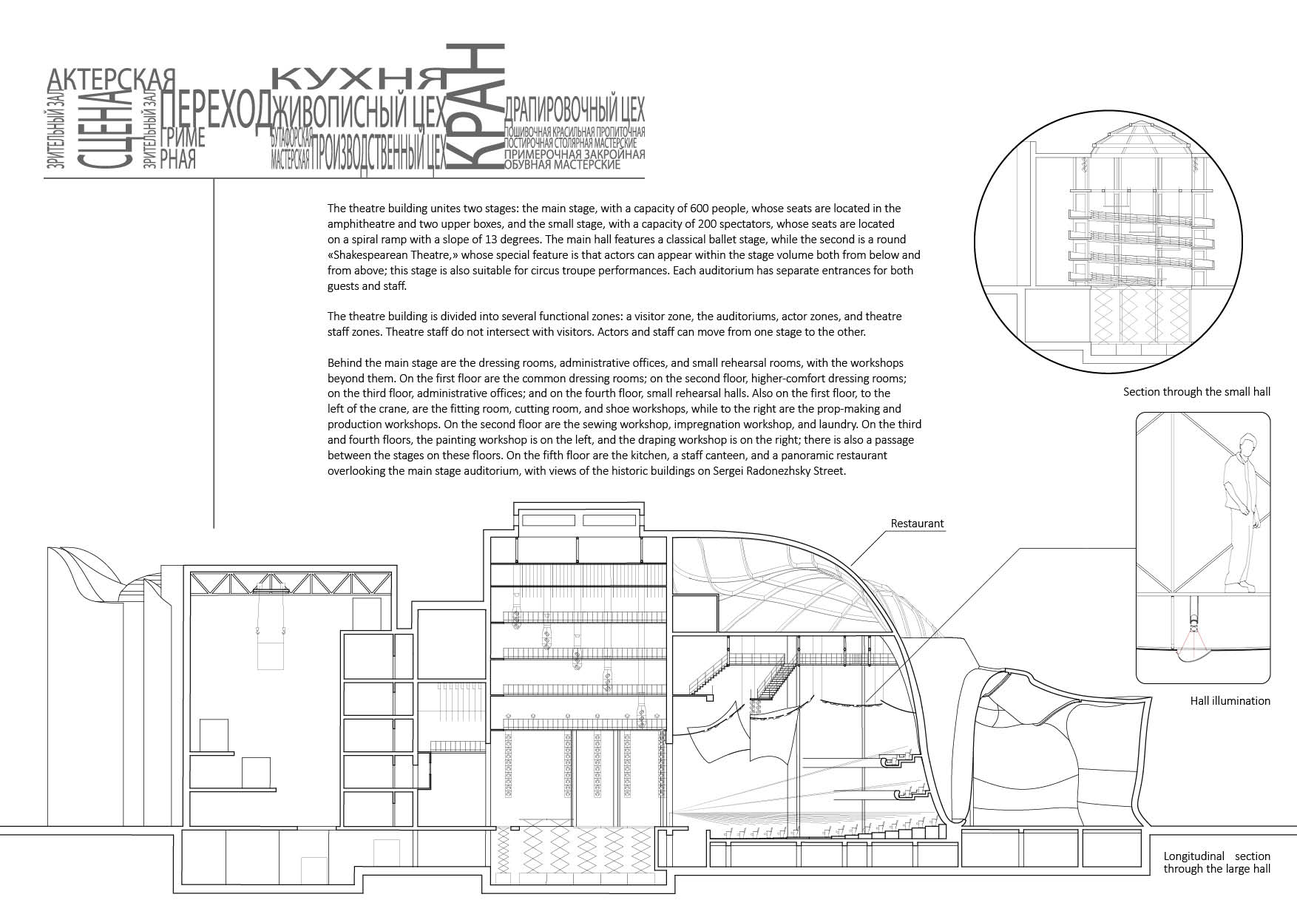
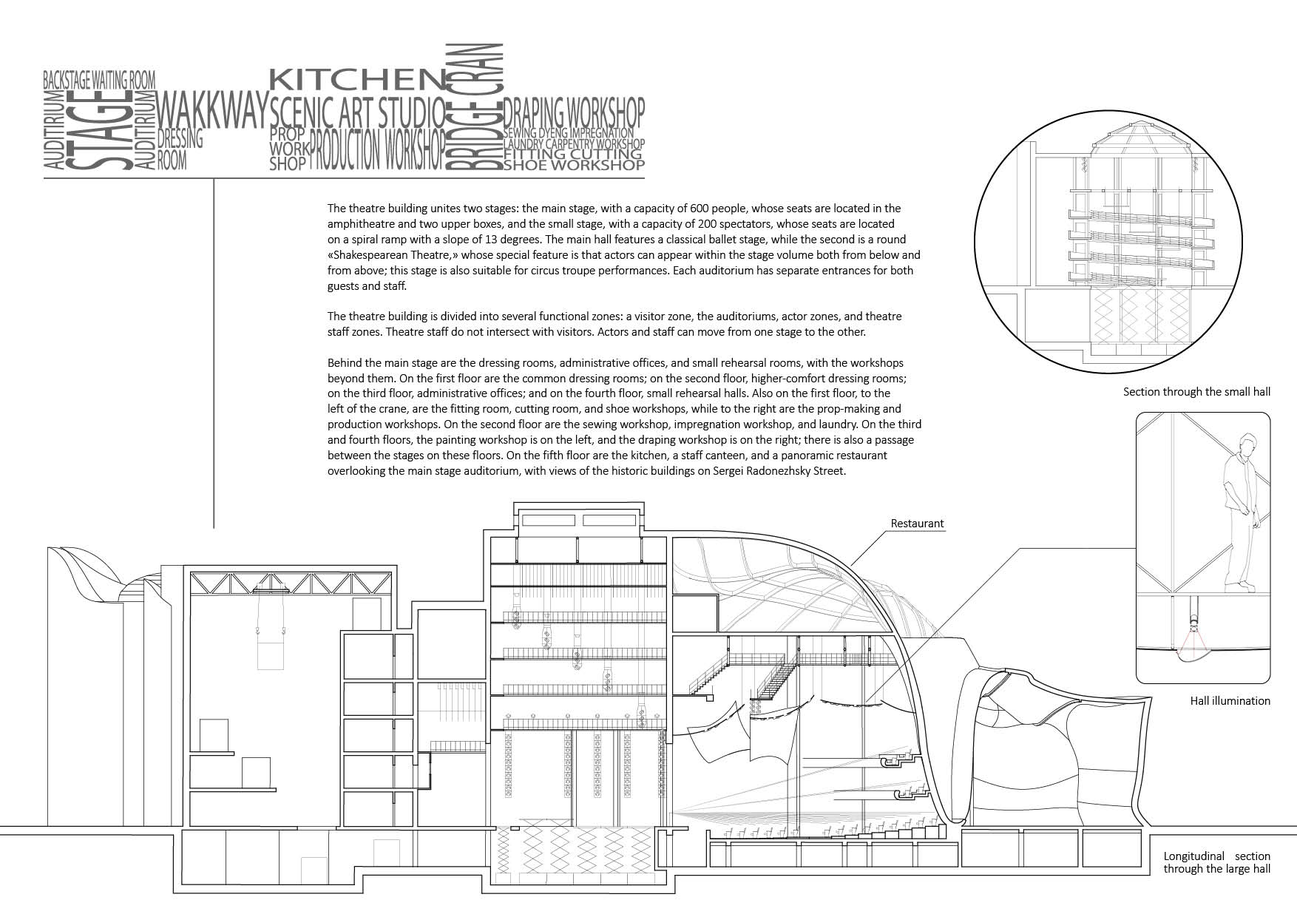
Обновил

Changed region(s): [[0.0308, 0.0306, 0.4926, 0.1839]]

diff --git a/Горнолыжный курорт.html b/Горнолыжный курорт.html
@@ -520,16 +520,16 @@
     <!-- Блок проектов -->
     <div class="letter-sub">
         <a href="Практикум Древолюзия.html" class="letter-sub-line">
-            <span class="scroll-text">Практикум Древолюция</span>
+            <span class="scroll-text">Workshop "Treevolution" 2024</span>
         </a>
         <a href="Театр.html" class="letter-sub-line">
-            <span class="scroll-text">Театр</span>
+            <span class="scroll-text">Theatre</span>
         </a>
         <a href="Горнолыжный курорт.html" class="letter-sub-line bold">
-            <span class="scroll-text">Горнолыжный курорт</span>
+            <span class="scroll-text">The ski resort</span>
         </a>
         <a href="Плагин.html" class="letter-sub-line">
-            <span class="scroll-text">Плагин для Rhino + Grasshopper</span>
+            <span class="scroll-text">The plugin for Rhino + Grasshopper</span>
         </a>
     </div>
 
@@ -537,23 +537,35 @@
     <div class="text-blocks-stack-wrapper">
         <div class="text-blocks-stack">
             <div class="text-block text-block-base">
-                <p>Горнолыжный курорт</p>
-                <p class="mobile-only">Дипломный проект 2025</p>
+                <p>The ski resort</p>
+                <p class="mobile-only">Diploma Project 2025</p>
                 <p class="desktop-only"><br></p>
-                <p>Расположен на горах Кавказа в поселке Архыз, на 2х сторонах ущелья – южной и северной. На данный момент протяженность трасс составляет 27 км. С 2015 года этот курорт активно развивается. Тогда была заложена новая территория для курорта, ее назвали «Лунная поляна». На данный момент там уже проложена дорога и построена гостиница «Moon 2». Мой участок расположен на южном склоне. Его с трех сторон обрамляет дорога, а с четвертой – лыжная трасса и Moon 2. Эти уже существующие ориентиры и послужили частичным решением зонирования моего участка и общей стилистике курорта.</p>
-                <p>Мой участок имеет перепад 20 метров с севера на юг. Он имеет несколько разноуровневых террас. Внутри них расположены технические помещения, парковки, а со стороны площадей там размещены магазины, кафе и пункты проката оборудования. Гостиницы расположены вдоль дороги и повернуты для наибольшего количества красивых видов из окон номеров. Во всех гостиницах есть рестораны/кафе, пункты хранения и проката оборудования. Мой участок зонирован так, чтобы в каждой гостинице была система ski in / ski out. Для этого запроектированы пандусы и мосты через дорогу.</p>
-                <p>Вечером, вместе с заходом солнца, в 16:00 перестают работать канатные дороги (летом они работают дольше); вечернее катание есть только на двух трассах по пятницам и субботам. Начинается вечерняя жизнь, уже без лыжников. Основной культурный центр моего курорта сосредоточен под красной оболочкой. Там расположены кафе, магазины, вход на ледовую арену (которая летом может быть переоборудована в байк‑парк), зрительный зал, вход на трибуну. Зимой оболочка закрывает от большого количества осадков, летом – от палящего солнца.</p>
-                <p>Таким образом, на курорте есть две шумных зоны. Одна – справа, зона отдыха для лыжников, ее активный период с 7 до 18; и вторая зона под оболочкой, активный период с 18 до 3.</p>
-                <p>На моем участке 6 гостиниц, расположенных на разных уровнях. По своей структуре они похожи. Это террасированные дома с большим атриумом почти во всю высоту здания.</p>
+                <p>Located in the Caucasus Mountains in the village of Arkhyz, on two sides of the gorge – the southern and northern. Currently, the length of the slopes is 27 km.
+                    This resort has been actively developing since 2015. At that time, a new territory for the resort was established, named "Lunnaya Polyana". Currently, a road has already been laid there,
+                    and the hotel "Moon 2" has been built. My site is located on the southern slope. It is bordered on three sides by the road, and on the fourth side by a ski run and the Moon 2 hotel. 
+                    These existing landmarks have partly informed the zoning of my site and the overall stylistic direction of the resort.</p>
+                <p>My site has an elevation change of 20 meters from north to south. It features several multi-level terraces. 
+                    Within these terraces are technical rooms and parking lots, while on the square side, there are shops, cafes, and equipment rental points. 
+                    The hotels are located along the road and are oriented to maximize the beautiful views from the room windows. All hotels have restaurants/cafes, 
+                    as well as equipment storage and rental points. My site is zoned to ensure that each hotel has a ski-in/ski-out system. 
+                    To achieve this, ramps and bridges across the road have been designed.</p>
+                <p>In the evening, with sunset, the cable cars stop operating at 4:00 PM (in summer, they run longer). Night skiing is only available on two slopes on Fridays and Saturdays.
+                     Then the evening life begins, now without skiers. The main cultural center of my resort is concentrated under the red shell. There, you'll find cafes, shops,
+                      the entrance to the ice arena (which can be converted into a bike park in summer), an auditorium, and the entrance to the stands. In winter,
+                       the shell protects against heavy precipitation; in summer, it shields from the scorching sun.</p>
+                <p>Thus, the resort has two noisy zones. One is on the right, a rest area for skiers, with its active period from 7:00 AM to 6:00 PM;
+                     and the second zone is under the shell, with its active period from 6:00 PM to 3:00 AM.</p>
+                <p>My site features 6 hotels located at different levels. They are similar in structure. 
+                    These are terraced buildings with a large atrium extending almost the full height of the structure.</p>
             </div>
             <div class="text-block text-block-overlay">
-                <p class="desktop-only">Дипломный проект 2025</p>
+                <p class="desktop-only">Diploma Project 2025</p>
             </div>
         </div>
     </div>
 
     <!-- Кнопка для перехода к следующему проекту -->
-    <div class="next-project-button" id="nextProjectBtn">Следующий проект ></div>
+    <div class="next-project-button" id="nextProjectBtn">Next Project ></div>
 
     <!-- Оверлей для увеличенного просмотра -->
     <div class="image-overlay" id="imageOverlay">

diff --git a/Практикум Древолюзия.html b/Практикум Древолюзия.html
@@ -584,16 +584,16 @@
     <!-- Блок проектов (фиксированный) -->
     <div class="letter-sub">
         <a href="Практикум Древолюзия.html" class="letter-sub-line bold">
-            <span class="scroll-text">Практикум Древолюция</span>
+            <span class="scroll-text">Workshop "Treevolution" 2024</span>
         </a>
         <a href="Театр.html" class="letter-sub-line">
-            <span class="scroll-text">Театр</span>
+            <span class="scroll-text">Theatre</span>
         </a>
         <a href="Горнолыжный курорт.html" class="letter-sub-line">
-            <span class="scroll-text">Горнолыжный курорт</span>
+            <span class="scroll-text">The ski resort</span>
         </a>
         <a href="Плагин.html" class="letter-sub-line">
-            <span class="scroll-text">Плагин для Rhino + Grasshopper</span>
+            <span class="scroll-text">The plugin for Rhino + Grasshopper</span>
         </a>
     </div>
 
@@ -602,30 +602,32 @@
         <div class="text-blocks-stack">
             <!-- Нижний блок (основной, текст прижат к левому краю) -->
             <div class="text-block text-block-base">
-                <p>На Юг</p>
-                 <p class="mobile-only">Практикум "Древолюция" 2024</p>
+                <p>To South</p>
+                 <p class="mobile-only">Workshop "Treevolution" 2024</p>
                 <p class="desktop-only"> <br></p>
                 </p><br></p>
-                <p>«НА ЮГ» - арт-объект, направляющий внимание зрителя на Галическое озеро и Троицкий собор, возведен на холме в селе Туровское в рамках конкурса «Древолюция 2024».
-Объект, как и перелётные птицы, стремицтся на юг. Белощёкие казарки, прилетевшие на Галичское озеро в 2017 году, вдохновили авторов на создание формы, повторяющей траекторию взмаха крыльев. 
-Сужение платформы приводит человека к точке фокуса, началу координат - моменту уединенного созерцания природы. Объект гармонично взаимодействует с окружающей средой и завершает восходящий рельеф местности.</p>
-                <p>Конструкция образует самонесущий каркас из треугольников, разворачивающихся ближе к началу композиции. 
-                    Её жесткость обеспечена за счет дополнительных стоек и четырех забетонированных свай,
-                    нивелирующих горизонтальное кручение. В местах соприкосновения с землей объект обработан антисептическим раствором.
-                     Последовательное возведение сооружения позволило скрыть все крепежные элементы.</p>
-                <p>«НА ЮГ» - об умении видеть и ловить сокровенное, ощущать мир сквозь призму ограниченного пространства.</p>
+                </p>«…The flap of a migratory bird's wing transports us to a point where the unattainable draws closer…»</p>
+                <p>"To South" is an art object that directs the viewer's attention towards Lake Galich and the Holy Trinity Cathedral. It was erected on a hill in the village of Turovskoye as part of the «Treevolution 2024» competition.
+                    The structure, like migratory birds, strives southward. Barnacle geese, which arrived at Lake Galich in 2017, 
+                    inspired the authors to create a form that echoes the trajectory of a wingbeat. The narrowing of the platform leads a person to a focal point,
+                    a point of origin—a moment of solitary contemplation of nature. The object interacts harmoniously with its surroundings and completes the site's ascending topography.</p>
+                <p>The structure forms a self-supporting frame made of triangles that unfold towards the beginning of the composition. 
+                    Its rigidity is ensured by additional supports and four concreted piles that negate horizontal torsion. 
+                    At points of contact with the ground, the object has been treated with an antiseptic solution. 
+                    The sequential construction of the structure made it possible to conceal all fastening elements.</p>
+                <p>"To South" is about the ability to see and capture the intimate, to perceive the world through the prism of a limited space.</p>
                 <p></p>
                 <!--</p><br></p> -->
             </div>
             <!-- Верхний блок (накладывается поверх, текст прижат к правому краю) -->
             <div class="text-block text-block-overlay">
-                <p class="desktop-only">Практикум "Древолюция" 2024</p>
+                <p class="desktop-only">Workshop "Treevolution" 2024</p>
             </div>
         </div>
     </div>
 
     <!-- Кнопка для перехода к следующему проекту -->
-    <div class="next-project-button" id="nextProjectBtn">Следующий проект ></div>
+    <div class="next-project-button" id="nextProjectBtn">Next Project ></div>
 
     <!-- Оверлей для увеличенного просмотра -->
     <div class="image-overlay" id="imageOverlay">

diff --git a/Театр.html b/Театр.html
@@ -582,16 +582,16 @@
     <!-- Блок проектов (фиксированный) -->
     <div class="letter-sub">
         <a href="Практикум Древолюзия.html" class="letter-sub-line">
-            <span class="scroll-text">Практикум Древолюция</span>
+            <span class="scroll-text">Workshop Treevolution 2024</span>
         </a>
         <a href="Театр.html" class="letter-sub-line bold">
-            <span class="scroll-text">Театр</span>
+            <span class="scroll-text">Theatre</span>
         </a>
         <a href="Горнолыжный курорт.html" class="letter-sub-line">
-            <span class="scroll-text">Горнолыжный курорт</span>
+            <span class="scroll-text">The ski resort</span>
         </a>
         <a href="Плагин.html" class="letter-sub-line">
-            <span class="scroll-text">Плагин для Rhino + Grasshopper</span>
+            <span class="scroll-text">The plugin for Rhino + Grasshopper</span>
         </a>
     </div>
 
@@ -600,28 +600,27 @@
         <div class="text-blocks-stack">
             <!-- Нижний блок (основной, текст прижат к левому краю) -->
             <div class="text-block text-block-base">
-                <p>Театр</p>
-                <p class="mobile-only">Курсовой проект 2024</p>
+                <p>Theatre</p>
+                <p class="mobile-only">Course Project 2024</p>
                 <p class="desktop-only"> <br></p>
                 </p><br></p>
-                <p>Театр начинается с вешалки, а заканчивается цветами на сцене.</p>
-                <p>Здание театра расположено в Москве у пересадки между московским метро и московской железной дорогой.
-                Театр состоит из нескольких залов, в разных обьемах. Один основной на 600 мест, второй на 200 человек 
-                посадочные места расположенны на большом пандусе. За основной сценой расположены технические помещения. 
-                Над зрительным залом основной сцены находится ресторан.</p>
+                <p>The theatre begins with the coat rack, and ends with flowers on the stage.</p>
+                <p>The theater building is located in Moscow, at the interchange between the Moscow Metro and the Moscow Railway.
+                    The theater consists of several halls in separate volumes. One main hall seats 600 people, and a second hall seats 200 people, 
+                    with the seating arranged on a large ramp. Technical rooms are located behind the main stage. A restaurant is situated above the main stage auditorium.</p>
                 <p></p>
                 <p></p>
                 <!--</p><br></p> -->
             </div>
             <!-- Верхний блок (накладывается поверх, текст прижат к правому краю) -->
             <div class="text-block text-block-overlay">
-                <p class="desktop-only">Курсовой проект 2024</p>
+                <p class="desktop-only">Course Project 2024</p>
             </div>
         </div>
     </div>
 
     <!-- Кнопка для перехода к следующему проекту -->
-    <div class="next-project-button" id="nextProjectBtn">Следующий проект ></div>
+    <div class="next-project-button" id="nextProjectBtn">Next Project ></div>
 
     <!-- Оверлей для увеличенного просмотра -->
     <div class="image-overlay" id="imageOverlay">

diff --git a/Плагин.html b/Плагин.html
@@ -579,16 +579,16 @@
     <!-- Блок проектов (фиксированный) -->
     <div class="letter-sub">
         <a href="Практикум Древолюзия.html" class="letter-sub-line">
-            <span class="scroll-text">Практикум Древолюция</span>
+            <span class="scroll-text">Workshop "Treevolution" 2024</span>
         </a>
         <a href="Театр.html" class="letter-sub-line">
-            <span class="scroll-text">Театр</span>
+            <span class="scroll-text">Theatre</span>
         </a>
         <a href="Горнолыжный курорт.html" class="letter-sub-line">
-            <span class="scroll-text">Горнолыжный курорт</span>
+            <span class="scroll-text">The ski resort</span>
         </a>
         <a href="Плагин.html" class="letter-sub-line bold">
-            <span class="scroll-text">Плагин для Rhino + Grasshopper</span>
+            <span class="scroll-text">The plugin for Rhino + Grasshopper</span>
         </a>
     </div>
 
@@ -597,24 +597,24 @@
         <div class="text-blocks-stack">
             <!-- Нижний блок (основной, текст прижат к левому краю) -->
             <div class="text-block text-block-base">
-                <p>Плагин для Rhino + Grasshopper</p>
-                <p class="mobile-only">Программа 2026</p>
+                <p>The plugin for Rhino + Grasshopper</p>
+                <p class="mobile-only">Program 2026</p>
                 <p class="desktop-only"> <br></p>
                 </p><br></p>
-                <p>Параметрический набор инструментов для градостроительства и ландшафтного моделирования в Grasshopper. 
-                Генерируйте здания, дороги и рельеф с полным параметрическим контролем. Идеально подходит для концептуального градостроительства и градостроительства.
-                Общий принцип работы: наличие кривой и наличие буквенного кода. Типы кодов (разные для каждого).</p>
+                <p>Parametric set of tools for urban planning and landscape modeling in Grasshopper. 
+                Generate buildings, roads and terrain with full parametric control. Perfect for conceptual urban planning and urban design.
+                General principle of operation: presence of a curve and presence of a letter code. Types of codes (different for each).</p>
             </p><br></p>
             </div>
             <!-- Верхний блок (накладывается поверх, текст прижат к правому краю) -->
             <div class="text-block text-block-overlay">
-                <p class="desktop-only">Программа 2026</p>
+                <p class="desktop-only">Program 2026</p>
             </div>
         </div>
     </div>
 
     <!-- Кнопка для перехода к следующему проекту -->
-    <div class="next-project-button" id="nextProjectBtn">Следующий проект ></div>
+    <div class="next-project-button" id="nextProjectBtn">Next Project ></div>
 
     <!-- Оверлей для увеличенного просмотра -->
     <div class="image-overlay" id="imageOverlay">
